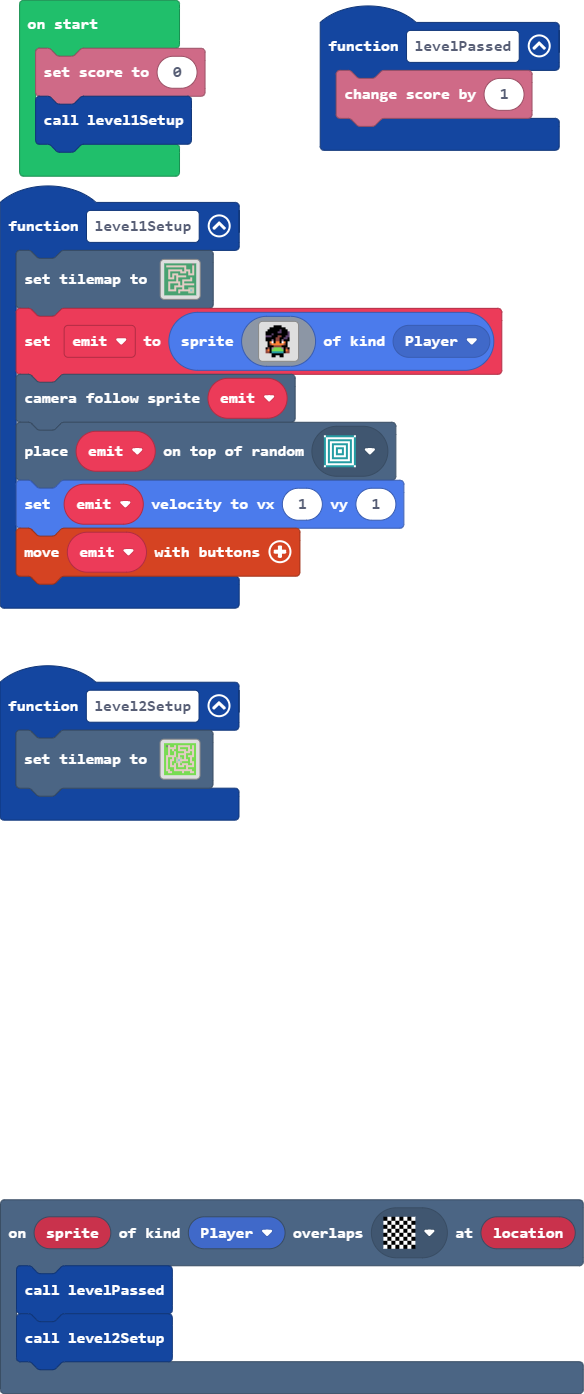
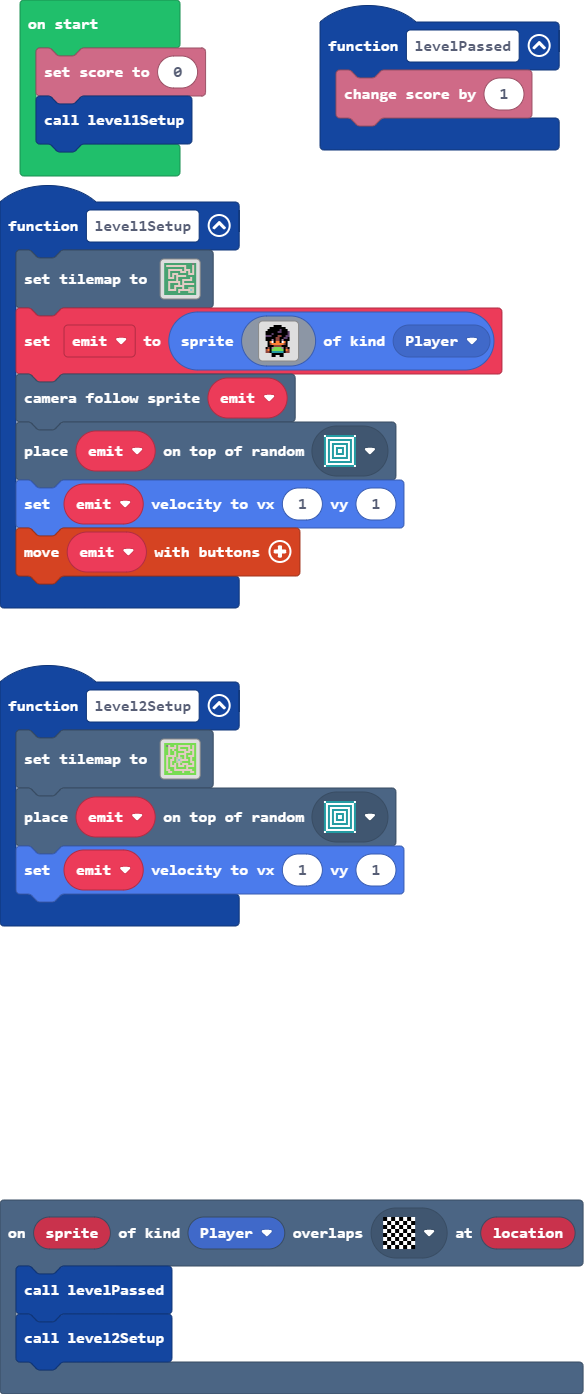
Update main.blocks, main.ts, tilemap.g.jres, tilemap.g.ts

diff --git a/tilemap.g.ts b/tilemap.g.ts
@@ -137,6 +137,25 @@ namespace myTiles {
 . . . . . . . . . . . . . . . . 
 . . . . . . . . . . . . . . . . 
 `, [myTiles.transparency16], TileScale.Sixteen);
+            case "level8":
+            case "level8":return tiles.createTilemap(hex`1000100000000000000000000000000000000000000000000000000000000000000000000000000000000000000000000000000000000000000000000000000000000000000000000000000000000000000000000000000000000000000000000000000000000000000000000000000000000000000000000000000000000000000000000000000000000000000000000000000000000000000000000000000000000000000000000000000000000000000000000000000000000000000000000000000000000000000000000000000000000000000000000000000000000000000000000000000000000000000000000000000000000000000000000000000000000000`, img`
+. . . . . . . . . . . . . . . . 
+. . . . . . . . . . . . . . . . 
+. . . . . . . . . . . . . . . . 
+. . . . . . . . . . . . . . . . 
+. . . . . . . . . . . . . . . . 
+. . . . . . . . . . . . . . . . 
+. . . . . . . . . . . . . . . . 
+. . . . . . . . . . . . . . . . 
+. . . . . . . . . . . . . . . . 
+. . . . . . . . . . . . . . . . 
+. . . . . . . . . . . . . . . . 
+. . . . . . . . . . . . . . . . 
+. . . . . . . . . . . . . . . . 
+. . . . . . . . . . . . . . . . 
+. . . . . . . . . . . . . . . . 
+. . . . . . . . . . . . . . . . 
+`, [myTiles.transparency16], TileScale.Sixteen);
         }
         return null;
     })

diff --git a/main.ts b/main.ts
@@ -1,5 +1,7 @@
 function level2Setup () {
     tiles.setTilemap(tilemap`level0`)
+    tiles.placeOnRandomTile(emit, assets.tile`teleporter`)
+    emit.setVelocity(1, 1)
 }
 function levelPassed () {
     info.changeScoreBy(1)
